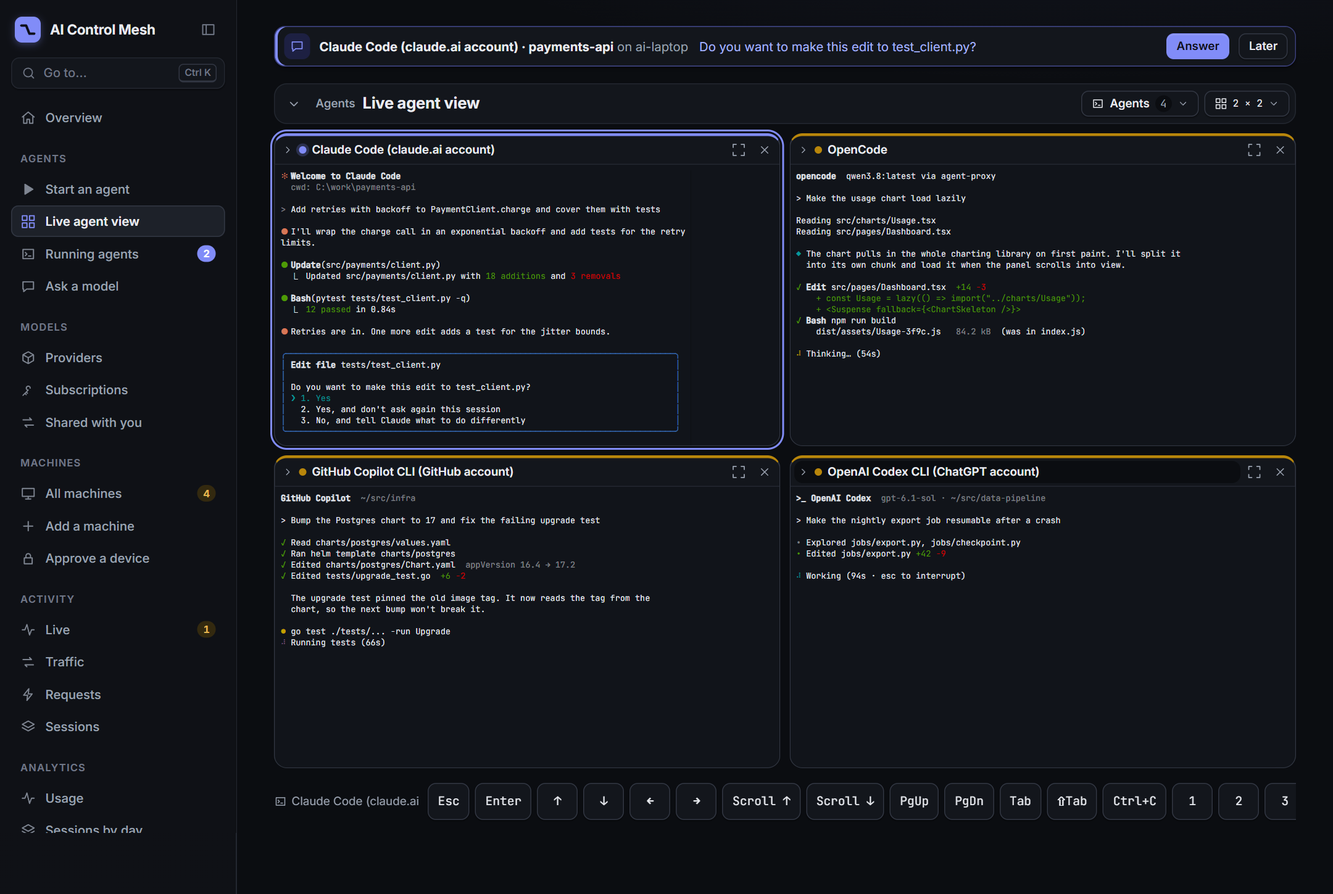
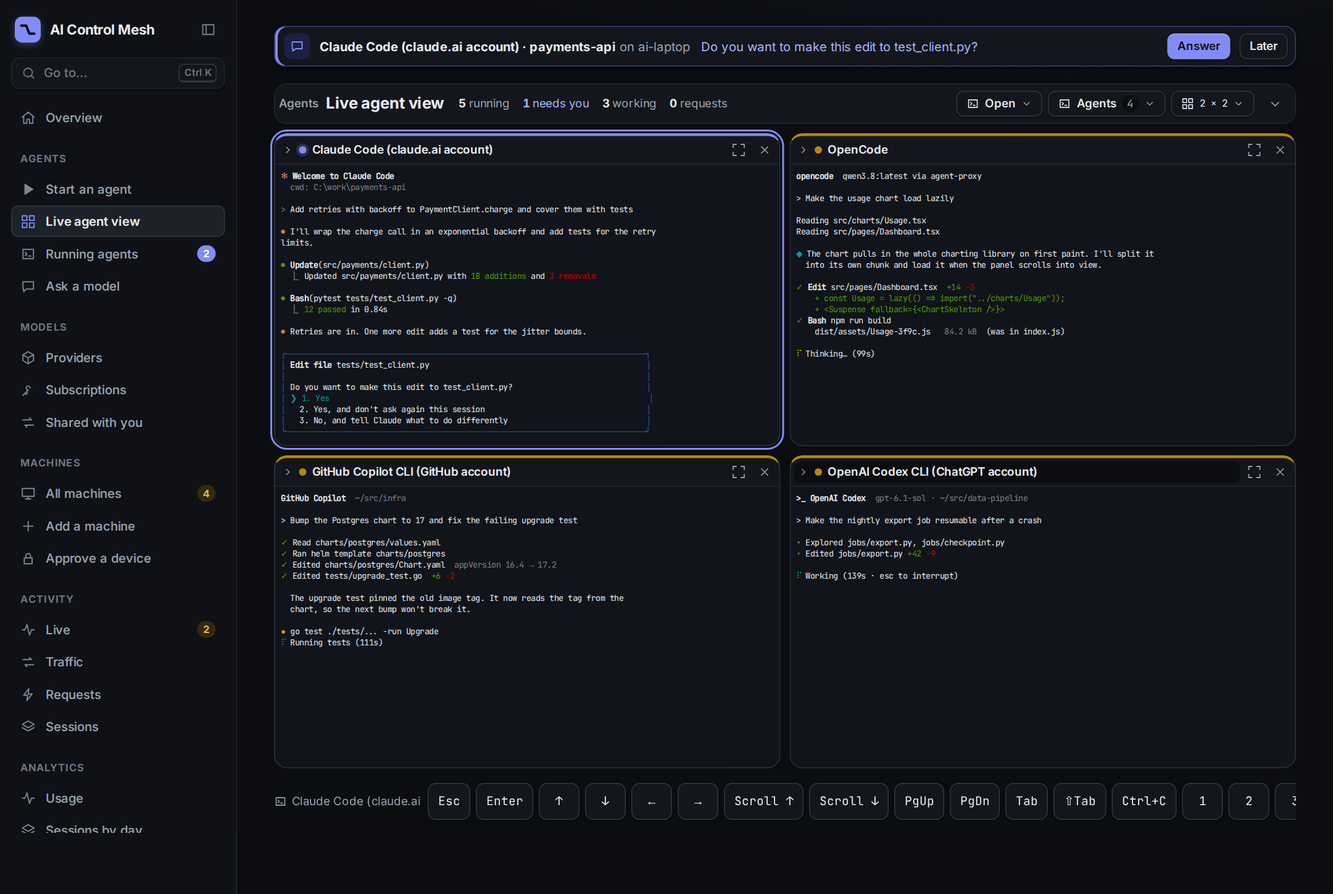
Share one header bar between Running agents and the Live agent view

diff --git a/ui/src/components/AgentBar.tsx b/ui/src/components/AgentBar.tsx
@@ -1,0 +1,145 @@
+/**
+ * The one-line header shared by Running agents and the Live agent view: the title, the running
+ * agents' counts and estimated cost, a dropdown to jump to any agent's terminal, and the page's own
+ * controls. Both pages use it so moving between them keeps the same header.
+ */
+import { useCallback, useEffect, useRef, useState, type ReactNode, type RefObject } from "react";
+import { Link } from "react-router-dom";
+import { useQueries } from "@tanstack/react-query";
+import { api, type TerminalSummary } from "../api";
+import { formatNumber, formatUsd } from "../format";
+import { terminalState } from "../pages/Terminals";
+import { Icon } from "./Icon";
+import { PartTag } from "./PartTag";
+import { SessionCostPill } from "./SessionCost";
+
+const touch = typeof matchMedia === "function" && matchMedia("(pointer: coarse)").matches;
+
+/** Closes a dropdown on Escape or a press outside it, as the account menu does. */
+export function useDismiss(open: boolean, box: RefObject<HTMLElement | null>, close: () => void) {
+  useEffect(() => {
+    if (!open) return;
+    const handle = (event: MouseEvent | KeyboardEvent) => {
+      if (event instanceof KeyboardEvent ? event.key === "Escape" : !box.current?.contains(event.target as Node)) close();
+    };
+    document.addEventListener("mousedown", handle);
+    document.addEventListener("keydown", handle);
+    return () => {
+      document.removeEventListener("mousedown", handle);
+      document.removeEventListener("keydown", handle);
+    };
+  }, [open, box, close]);
+}
+
+const isRunning = (terminal: TerminalSummary) => !(terminal.ended_at ?? terminal.session_ended_at);
+
+export function AgentBar({ title, terminals, slim = false, fromGrid = false, children, end }: {
+  title: string;
+  /** Every terminal the page knows; the bar counts and lists the running ones. */
+  terminals: TerminalSummary[];
+  /** Collapsed: only the title and `end` stay. */
+  slim?: boolean;
+  /** Opened terminals' back button returns to the Live agent view rather than Running agents. */
+  fromGrid?: boolean;
+  /** The page's own controls, after the agent switcher. */
+  children?: ReactNode;
+  /** Kept at the far end even when collapsed (the collapse button). */
+  end?: ReactNode;
+}) {
+  const running = terminals.filter(isRunning);
+  return (
+    <header className={`grid-bar agent-bar${slim ? " slim" : ""}`}>
+      <PartTag />
+      <h1>{title}</h1>
+      {!slim && <AgentTotals running={running} />}
+      <div className="grid-actions">
+        {!slim && <AgentSwitch running={running} fromGrid={fromGrid} />}
+        {children}
+        {end}
+      </div>
+    </header>
+  );
+}
+
+/** How many agents run, need you and work, their requests, and what they have cost so far. */
+function AgentTotals({ running }: { running: TerminalSummary[] }) {
+  // The same query keys as each agent's cost pill, so the bar and the rows share one poll per session.
+  const costs = useQueries({
+    queries: running.map((terminal) => ({
+      queryKey: ["session-cost", terminal.session_id, "watch"],
+      queryFn: () => api.sessionCost(terminal.session_id),
+      retry: false,
+      refetchInterval: 15_000,
+    })),
+  });
+  if (!running.length) return null;
+  const now = Date.now();
+  const tones = running.map((terminal) => terminalState(terminal, now).tone);
+  const asking = tones.filter((tone) => tone === "ask").length;
+  const working = tones.filter((tone) => tone === "live").length;
+  const requests = running.reduce((total, item) => total + item.request_count, 0);
+  const inFlight = running.reduce((total, item) => total + item.in_flight, 0);
+  const priced = costs.map((cost) => cost.data).filter((cost) => cost && cost.priced > 0);
+  const usd = priced.reduce((total, cost) => total + (cost?.usd ?? 0), 0);
+  const subscription = priced.reduce((total, cost) => total + (cost?.subscription_usd ?? 0), 0);
+  return (
+    <ul className="agent-totals" aria-label="Running agents in total">
+      <li><b>{formatNumber(running.length)}</b> running</li>
+      {asking > 0 && <li className="needs"><b>{formatNumber(asking)}</b> {asking === 1 ? "needs" : "need"} you</li>}
+      <li><b>{formatNumber(working)}</b> working</li>
+      <li title={inFlight ? `${inFlight} in flight` : undefined}><b>{formatNumber(requests)}</b> {requests === 1 ? "request" : "requests"}</li>
+      {priced.length > 0 && (
+        <li className="cost-pill" title={usd > 0
+          ? `Estimated cost of the running agents' sessions${subscription > 0 ? `, plus ${formatUsd(subscription)} of subscription calls at API prices` : ""}`
+          : "What the running agents' sessions would cost at API prices: a subscription doesn't bill them"}>
+          <b>{usd > 0 || subscription === 0 ? formatUsd(usd) : `≈ ${formatUsd(subscription)}`}</b>
+        </li>
+      )}
+    </ul>
+  );
+}
+
+/** A dropdown of the running agents, each opening its terminal: a quick switch between sessions. */
+function AgentSwitch({ running, fromGrid }: { running: TerminalSummary[]; fromGrid: boolean }) {
+  const [open, setOpen] = useState(false);
+  const [search, setSearch] = useState("");
+  const box = useRef<HTMLDivElement>(null);
+  const close = useCallback(() => setOpen(false), []);
+  useDismiss(open, box, close);
+  if (!running.length) return null;
+  const text = search.trim().toLowerCase();
+  const matching = running.filter((terminal) =>
+    [terminal.agent_name, terminal.project, terminal.machine_name, terminal.session_id].some((value) => value?.toLowerCase().includes(text)),
+  );
+  return (
+    <div className="grid-menu" ref={box}>
+      <button type="button" className={`small grid-menu-button${open ? " open" : ""}`} aria-haspopup="dialog" aria-expanded={open}
+        aria-controls="agent-switch" title="Open an agent's terminal" onClick={() => setOpen(!open)}>
+        <Icon name="terminal" size={14} /> Open
+        <Icon name="chevron" size={12} className="grid-menu-caret" />
+      </button>
+      {open && <div className="grid-popover grid-picker panel" id="agent-switch" role="dialog" aria-label="Open an agent">
+        <input type="search" aria-label="Search agents" placeholder="Search by agent, project or machine" autoFocus={!touch}
+          value={search} onChange={(event) => setSearch(event.target.value)} />
+        <div className="grid-agent-options" role="list">
+          {matching.map((terminal) => {
+            const state = terminalState(terminal);
+            return (
+              <Link role="listitem" className="grid-agent-option" key={terminal.session_id} to={`/terminals/${encodeURIComponent(terminal.session_id)}`}
+                state={fromGrid ? { fromGrid: true } : undefined} title={`${terminal.agent_name} · ${state.label}`} onClick={close}>
+                <span className={`state-dot ${state.tone}`} aria-hidden="true" />
+                <span className="grid-agent-name">
+                  <strong>{terminal.agent_name}</strong>
+                  <span className="subtle">{terminal.project || terminal.session_id} · {terminal.machine_name || "Unknown machine"}</span>
+                </span>
+                <SessionCostPill sessionId={terminal.session_id} />
+                <span className="grid-agent-state subtle">{state.label}</span>
+              </Link>
+            );
+          })}
+          {!matching.length && <p className="subtle grid-picker-note">No agents match your search.</p>}
+        </div>
+      </div>}
+    </div>
+  );
+}

diff --git a/ui/src/pages/TerminalGrid.tsx b/ui/src/pages/TerminalGrid.tsx
@@ -1,9 +1,9 @@
-import { useCallback, useEffect, useRef, useState, type CSSProperties, type FormEvent, type RefObject } from "react";
+import { useCallback, useEffect, useRef, useState, type CSSProperties, type FormEvent } from "react";
 import { Link } from "react-router-dom";
 import { useQuery } from "@tanstack/react-query";
 import { api, type TerminalSummary } from "../api";
 import { Icon } from "../components/Icon";
-import { PartTag } from "../components/PartTag";
+import { AgentBar, useDismiss } from "../components/AgentBar";
 import { useAuth } from "../hooks";
 import { PairPanel, terminalState } from "./Terminals";
 import { KEYS, TerminalView, type KeySender } from "./Terminal";
@@ -38,22 +38,6 @@ function readSelection(key: string): string[] {
 }
 
 const touch = typeof matchMedia === "function" && matchMedia("(pointer: coarse)").matches;
-
-/** Closes a dropdown on Escape or a press outside it, as the account menu does. */
-function useDismiss(open: boolean, box: RefObject<HTMLElement | null>, close: () => void) {
-  useEffect(() => {
-    if (!open) return;
-    const handle = (event: MouseEvent | KeyboardEvent) => {
-      if (event instanceof KeyboardEvent ? event.key === "Escape" : !box.current?.contains(event.target as Node)) close();
-    };
-    document.addEventListener("mousedown", handle);
-    document.addEventListener("keydown", handle);
-    return () => {
-      document.removeEventListener("mousedown", handle);
-      document.removeEventListener("keydown", handle);
-    };
-  }, [open, box, close]);
-}
 
 export function TerminalGridPage() {
   const auth = useAuth();
@@ -152,15 +136,13 @@ function TerminalGrid({ selectionKey }: { selectionKey: string }) {
 
   return (
     <div className="page wide terminal-grid-page">
-      <header className={`grid-bar${layout.slim ? " slim" : ""}`}>
+      <AgentBar title="Live agent view" terminals={trusted ? all : []} slim={layout.slim} fromGrid end={
         <button type="button" className="icon-button grid-collapse" aria-expanded={!layout.slim} aria-controls="grid-controls"
           title={layout.slim ? "Show the grid controls" : "Hide the grid controls: more room for the terminals"}
           aria-label={layout.slim ? "Show the grid controls" : "Hide the grid controls"} onClick={toggleSlim}>
           <Icon name="chevron" size={15} className={layout.slim ? "" : "down"} />
         </button>
-        <PartTag />
-        <h1>Live agent view</h1>
-        <div className="grid-actions">
+      }>
           {pages > 1 && <div className="row grid-pages" aria-label="Grid pages">
             <button type="button" className="icon-button" title="Previous page" aria-label="Previous page" disabled={currentPage === 0} onClick={() => setPage(currentPage - 1)}>
               <Icon name="chevron" size={15} className="back" />
@@ -231,8 +213,7 @@ function TerminalGrid({ selectionKey }: { selectionKey: string }) {
               </div>}
             </div>
           </div>}
-        </div>
-      </header>
+      </AgentBar>
 
       {remote.isError && <p role="alert" className="bad">{remote.error.message}</p>}
       {remote.isPending && <p className="subtle">Loading agents…</p>}

diff --git a/ui/src/pages/Terminals.tsx b/ui/src/pages/Terminals.tsx
@@ -5,7 +5,8 @@ import { api, type TerminalSummary } from "../api";
 import { NotifyToggle } from "../components/Attention";
 import { ConfirmDialog } from "../components/ConfirmDialog";
 import { useToast } from "../hooks";
-import { PartTag } from "../components/PartTag";
+import { AgentBar } from "../components/AgentBar";
+import { SessionCostPill } from "../components/SessionCost";
 import { SharingBadge } from "../components/Sharing";
 import { formatNumber, formatRelative } from "../format";
 
@@ -114,45 +115,13 @@ export function TerminalsPage() {
   const counts = new Map<string, number>();
   for (const { state } of found) counts.set(state.tone, (counts.get(state.tone) ?? 0) + 1);
   const shown = show ? found.filter(({ state }) => state.tone === show) : found;
-  const tones = running.map((terminal) => terminalState(terminal, now).tone);
 
   return (
     <div className="page">
-      <header className="page-head">
-        <PartTag />
-        <h1>Running agents</h1>
-        <p className="lede">
-          The agents running now with a shared terminal: who started each, what it's doing and how much it has sent. Open one
-          to read its screen and type into it, from any device.
-        </p>
-      </header>
+      <AgentBar title="Running agents" terminals={trusted ? all : []} />
 
       {remote.isError && <p className="bad">{remote.error.message}</p>}
       {remote.data && !trusted && <PairPanel />}
-
-      {trusted && running.length > 0 && (
-        <dl className="stat-cards" aria-label="Running agents">
-          <div>
-            <dt>Running</dt>
-            <dd>{formatNumber(running.length)}</dd>
-          </div>
-          <div>
-            <dt>Need you</dt>
-            <dd>{formatNumber(tones.filter((tone) => tone === "ask").length)}</dd>
-          </div>
-          <div>
-            <dt>Working</dt>
-            <dd>{formatNumber(tones.filter((tone) => tone === "live").length)}</dd>
-          </div>
-          <div>
-            <dt>Requests</dt>
-            <dd>
-              {formatNumber(running.reduce((total, item) => total + item.request_count, 0))}{" "}
-              {running.some((item) => item.in_flight > 0) && <small>{running.reduce((total, item) => total + item.in_flight, 0)} in flight</small>}
-            </dd>
-          </div>
-        </dl>
-      )}
 
       {trusted && (
         <section className="section" aria-label="Running now">
@@ -266,6 +235,7 @@ function AgentRow({ terminal, state, onRemove }: { terminal: TerminalSummary; st
           )}
           <SharingBadge you={terminal.you} />
           <span className="agent-row-end">
+            <SessionCostPill sessionId={terminal.session_id} />
             <span className={`pill ${state.tone === "idle" ? "" : state.tone}`}>{state.label}</span>
           </span>
         </span>

diff --git a/ui/src/styles.css b/ui/src/styles.css
@@ -1145,6 +1145,7 @@ h1 a:hover, h2 a:hover, h3 a:hover, .provider-card-head a:hover, .host-name a:ho
 .agent-row-line .pill { flex: none; }
 .agent-row-project { min-width: 0; overflow: hidden; text-overflow: ellipsis; white-space: nowrap; }
 .agent-row-end { flex: none; margin-left: auto; padding-left: 8px; font-variant-numeric: tabular-nums; white-space: nowrap; }
+.agent-row-line .agent-row-end { display: inline-flex; align-items: center; gap: 6px; }
 .agent-row-doing { font-size: 13.5px; overflow: hidden; text-overflow: ellipsis; white-space: nowrap; }
 .agent-row-meta { flex-wrap: wrap; gap: 2px 12px; font-size: 12.5px; color: var(--steel); }
 .agent-row-meta .mono { font-size: 12px; overflow-wrap: anywhere; }
@@ -1194,6 +1195,12 @@ h1 a:hover, h2 a:hover, h3 a:hover, .provider-card-head a:hover, .host-name a:ho
 .grid-bar.slim { padding: 2px 6px 2px 4px; }
 /* A collapsed bar has no controls left to label, and its title is already in the rail and the tab. */
 .grid-bar.slim .part-tag { display: none; }
+/* The running agents' counts and cost beside the title (components/AgentBar.tsx). */
+.agent-totals { display: flex; flex-wrap: wrap; align-items: center; gap: 4px 14px; margin: 0 0 0 8px; padding: 0; list-style: none; color: var(--steel); font-size: 12.5px; font-variant-numeric: tabular-nums; white-space: nowrap; }
+.agent-totals b { color: var(--ink); font-weight: 680; }
+.agent-totals .needs, .agent-totals .needs b { color: var(--accent-ink); }
+.agent-totals .cost-pill { padding: 1px 8px; border-radius: 999px; background: var(--ground); }
+a.grid-agent-option { color: var(--ink); text-decoration: none; }
 .grid-bar.slim h1 { font-size: 15px; }
 .grid-collapse .icon { color: var(--steel); transition: transform 120ms; }
 .grid-collapse .icon.down { transform: rotate(90deg); }

diff --git a/docs/console.md b/docs/console.md
@@ -98,9 +98,9 @@ A machine's own page has the same launch form (see [its Agents tab](#summary-age
 
 `/terminals` lists the agents running now whose terminals are shared with the server (`--control`, or started from a machine's page). It's the active part of **Sessions**, one row per agent:
 
-- The cards at the top count the agents running, those that need you, those working, and their requests (with how many are in flight).
+- The bar at the top is the same as the Live agent view's. It counts the agents running, those that need you, those working, and their requests (point at the count for how many are in flight), with what their sessions have cost so far. **Open** drops down the running agents, each with its state and cost, to jump straight to one's terminal.
 - **Search** by agent, project, person, machine, model or session id. The chips under it filter by state, each with its count.
-- Each row shows the agent, its folder, who can see it and its state; one line on what it's doing (the question, when it asks one); then who started it, the machine, the model and provider, when it started, and its requests with how many are in flight and when the last one was.
+- Each row shows the agent, its folder, who can see it, its cost so far and its state; one line on what it's doing (the question, when it asks one); then who started it, the machine, the model and provider, when it started, and its requests with how many are in flight and when the last one was.
 - Press a row to open its terminal. **Session** opens its session, with its requests and recordings.
 
 The states:
@@ -120,11 +120,13 @@ A terminal that isn't connected (launcher closed, or agent exited) has **Remove*
 
 ### Live agent view
 
-**Live agent view** (`/live-agents`) is where the console opens (`/` goes there). It shows several terminals together. Old `/terminals-beta` links open it. The title and two dropdowns share one narrow bar, so the terminals take the rest of the screen.
+**Live agent view** (`/live-agents`) is where the console opens (`/` goes there). It shows several terminals together. Old `/terminals-beta` links open it. The title, the same counts and cost as Running agents, and three dropdowns share one narrow bar, so the terminals take the rest of the screen.
+
+- **Open** jumps to any running agent's full terminal page, as on Running agents; its back button returns here.
 
 - **Agents** (with the number in the grid) drops down a searchable list of shared sessions, each with its state, folder and machine. Tick up to 16. It opens by itself while the grid is empty; **Done**, Esc or a click elsewhere closes it.
 - The layout dropdown (**2 × 2**) sets **Rows** and **Columns** (1–4 each) and **Text size**. With more agents than fit, the arrows beside the page number (such as **1 / 2**) switch grid pages; only the visible page connects its terminals.
-- The button at the left of the bar hides the dropdowns, leaving one line of chrome: the grid grows into the room until you show them again. **Choose agents** in an empty grid or **Add an agent** in an empty tile shows the bar and opens the agent list.
+- The button at the right end of the bar hides the counts and dropdowns, leaving one line of chrome: the grid grows into the room until you show them again. **Choose agents** in an empty grid or **Add an agent** in an empty tile shows the bar and opens the agent list.
 
 ![Four terminals in the Live agent view](screenshots/terminal-grid.png)
 
@@ -231,7 +233,7 @@ Account agents' other calls (sign-in, telemetry, MCP) aren't shown here; they're
 
 `/sessions` lists every session, the most recently active first: agent, project, provider, model, who can see it, its state (**Streaming**, **Open** or **Ended**), its requests, the tokens it sent and got back, its estimated cost and when it last had traffic. On a wide screen these are columns with their names above, so the figures line up down the list, and a thin bar under each cost shows how it compares with the costliest session shown. The cards at the top count the sessions, the ones streaming now, the open ones, all their requests, their tokens and their cost. **Search** by agent, project, model or session id, filter by state with the chips, and **Sort by** **Latest**, **Cost**, **Tokens** or **Requests** to bring the sessions that used the most to the top. A cost with **≈** is a subscription's calls at API prices, which isn't billed; a dash means none of the session's model calls has a price yet (recompute them on **Costs and prices**). Expanding one shows its **Latest requests** and its actions:
 
-**Estimated cost.** A session's own page shows what its calls to paid providers cost, by the server's price table, and each request in its list and in the inspector shows its own. **Traffic** shows each request's cost in its row and the total of the requests shown in its cards. In the **Live agent view** each agent's header carries its session's cost so far, as does the bar of its full terminal page; point at it for the cost by model. An account agent's calls show what they'd cost at API prices, since a subscription doesn't bill them by the token. See [Cost estimates](providers.md#cost-estimates).
+**Estimated cost.** A session's own page shows what its calls to paid providers cost, by the server's price table, and each request in its list and in the inspector shows its own. **Traffic** shows each request's cost in its row and the total of the requests shown in its cards. In the **Live agent view** each agent's header carries its session's cost so far, as do its row on **Running agents**, the **Open** list and the bar of its full terminal page, and the bar on both pages shows the running agents' total; point at it for the cost by model. An account agent's calls show what they'd cost at API prices, since a subscription doesn't bill them by the token. See [Cost estimates](providers.md#cost-estimates).
 
 - **Capture full request and response payloads**: turn saving payloads on or off for the rest of the session.
 - **Review requests**, **Traffic**: open its requests on those pages.

diff --git a/.context/console.md b/.context/console.md
@@ -136,7 +136,7 @@ Server settings' **Links** tab (site admins) is `LinksSettings`: the mesh id, co
 ## Extending
 
 - Start an agent (`pages/Agents.tsx`): two choices kept in the address (`?on=<machine id>&agent=<id>`; the last machine also in localStorage): where it runs ("Give me the command", or a machine with `you.launch`, each with `machineBlocker()`'s reason) and the agent, then `AgentStart` shows only that case: on a ready machine `Machine.tsx`'s exported `LaunchForm` with `initialAgent` and `fixedAgent` (no agent choice of its own); on one without the agent its `InstallCommand` for the machine's OS; for the command, the install command, then a collapsed **Install the agent command on that computer** (`OneLineInstall` with `only="agent"`, from `Downloads.tsx`; the same is on Your account and, as the **Only the agent command** choice of `INSTALL_CHOICES`, on Downloads) and `AccountCommand`/`ProxyCommand` with the extras under a collapsed Options. No machines you may launch on: a callout linking to `/machines#add`.
-- **Page**: `pages/X.tsx` with the standard head (`header.page-head`: `<PartTag />`, the `<h1>`, or `.page-title` holding the `<h1>` and the page's actions, then a `p.lede` of one or two short sentences without commands; anything longer is a `p.subtle` or goes in the content), counts as `dl.stat-cards`, search in `.filters`, pill filters and toggles in `.chip-bar` (buttons with `aria-pressed`), top-level tabs as `TabBar className="page-tabs"`, and `p.empty` for empty and loading states. Sessions and Traffic are the models (Traffic's rows are `.traffic-list` buttons, not a table, so they fit beside the inspector). Running agents (`pages/Terminals.tsx`) is Sessions for the active ones: the same head, cards, search and state chips over `.agent-list`, whose rows (`AgentRow`) are links to the terminal, with the state from `terminalState()` and who, where and traffic from the `["terminals"]` summary (nothing worked out from requests). A list with details beside it (`.split`: Traffic, Requests) uses `components/DetailView.tsx`: `useDetailView(open)` gives `select(key)` (sets `?request=` and pushes a history entry marked `fromList`) and `close()` (Back when it came from the list, else it drops the parameter), and the page puts `detail-open` on `.page` with a `DetailBack` above the inspector. Below 1100px, where `.split` stacks, `detail-open` hides the head, cards and list so the details are the page, and the hook puts the list back where it was scrolled to (it follows `window.scrollY` while the list shows, since the page has already shrunk by the time an effect could read it). The full-bleed terminal pages (`grid-bar`, `term-bar`) and Docs (its Markdown has the title) are the deliberate exceptions. It also needs a `<Route>` in `App.tsx`, an entry in `PAGES` placed in one of `SECTIONS`, calls in `api.ts`, and docs in `docs/console.md`.
+- **Page**: `pages/X.tsx` with the standard head (`header.page-head`: `<PartTag />`, the `<h1>`, or `.page-title` holding the `<h1>` and the page's actions, then a `p.lede` of one or two short sentences without commands; anything longer is a `p.subtle` or goes in the content), counts as `dl.stat-cards`, search in `.filters`, pill filters and toggles in `.chip-bar` (buttons with `aria-pressed`), top-level tabs as `TabBar className="page-tabs"`, and `p.empty` for empty and loading states. Sessions and Traffic are the models (Traffic's rows are `.traffic-list` buttons, not a table, so they fit beside the inspector). Running agents (`pages/Terminals.tsx`) is Sessions for the active ones: search and state chips over `.agent-list`, under the `AgentBar` header it shares with the Live agent view (`components/AgentBar.tsx`: the `grid-bar` with the running agents' counts, their summed cost from the same `["session-cost", id, "watch"]` queries as each row's `SessionCostPill`, and the **Open** dropdown to any running agent's terminal), whose rows (`AgentRow`) are links to the terminal, with the state from `terminalState()` and who, where and traffic from the `["terminals"]` summary (nothing worked out from requests). A list with details beside it (`.split`: Traffic, Requests) uses `components/DetailView.tsx`: `useDetailView(open)` gives `select(key)` (sets `?request=` and pushes a history entry marked `fromList`) and `close()` (Back when it came from the list, else it drops the parameter), and the page puts `detail-open` on `.page` with a `DetailBack` above the inspector. Below 1100px, where `.split` stacks, `detail-open` hides the head, cards and list so the details are the page, and the hook puts the list back where it was scrolled to (it follows `window.scrollY` while the list shows, since the page has already shrunk by the time an effect could read it). Running agents and the full-bleed terminal pages (`AgentBar`'s `grid-bar`, `term-bar`) and Docs (its Markdown has the title) are the deliberate exceptions. It also needs a `<Route>` in `App.tsx`, an entry in `PAGES` placed in one of `SECTIONS`, calls in `api.ts`, and docs in `docs/console.md`.
 - **Provider view**: `MACHINE_TYPES`, `PROVIDERS`, the Settings `<option>` and `URL_PLACEHOLDERS`, a `<Kind>Provider` taking the props above, and its case in `ProviderView`. No global provider pages.
 - Check with `npm run typecheck` and `npm run build`; for visual checks, the demo below.
 

diff --git a/docs/providers.md b/docs/providers.md
@@ -194,7 +194,7 @@ Each server process keeps what it last saw of each provider (status, time, error
 
 The server estimates what each model call to a paid provider cost, so you can see where a session's money went. It multiplies the request's token counts by a table of prices, **US dollars for a million tokens**: input, output, and cached input read and written (priced at their own rates; when a row leaves them out, at the input price).
 
-- **Where you see it.** A session's page shows its **Estimated cost**, with the cost by model when you point at it. An agent's header in the Live agent view and on its terminal page shows the same figure as it grows, and Traffic shows each request's cost and the total of the requests shown. Each request in the list shows its own cost, and its details split it into input, output and cache. `GET /api/sessions/<id>/cost` returns the same total, and every request record carries its `cost`.
+- **Where you see it.** A session's page shows its **Estimated cost**, with the cost by model when you point at it. An agent's header in the Live agent view, its row on Running agents and its terminal page show the same figure as it grows, the bar on both agent pages shows the running agents' total, and Traffic shows each request's cost and the total of the requests shown. Each request in the list shows its own cost, and its details split it into input, output and cache. `GET /api/sessions/<id>/cost` returns the same total, and every request record carries its `cost`.
 - **What gets one.** Calls to a hosted API or gateway the server calls with a key are paid for by the token, so their cost counts toward the total. An account agent's calls go out on a subscription that isn't billed by the token: they're shown as what the same tokens would cost **at API prices**, kept apart from the total. Calls to a machine's own model server (Ollama, llama.cpp, Strata, Docker Model Runner) cost nothing here and get no estimate.
 - **A provider's own prices.** Any API provider can carry its own price list: **Prices, for cost estimates** where the provider is edited (its organization's **API providers** tab), or `prices` in its settings. They're tried before the server's table, so a provider says what it charges: a gateway's markup, a negotiated rate, a model the server's table doesn't know. A model with no row there takes the server's price.
 - **The server's prices.** Site admins edit the table on **Server settings** › **Model prices**. It starts with list prices for Claude, OpenAI and DeepSeek models (DeepSeek's are its off-peak prices: in its peak hours it charges double, which one price for a model can't say), and can also be edited on the **Costs and prices** page. A row is a model name or pattern (`*` stands for anything, such as `claude-sonnet-4*`) and its prices; a model takes the first row that matches the name the provider was asked for, so narrower patterns go first. A name with a provider in front (`openai/gpt-4o`, as gateways write them) is also matched without it.
